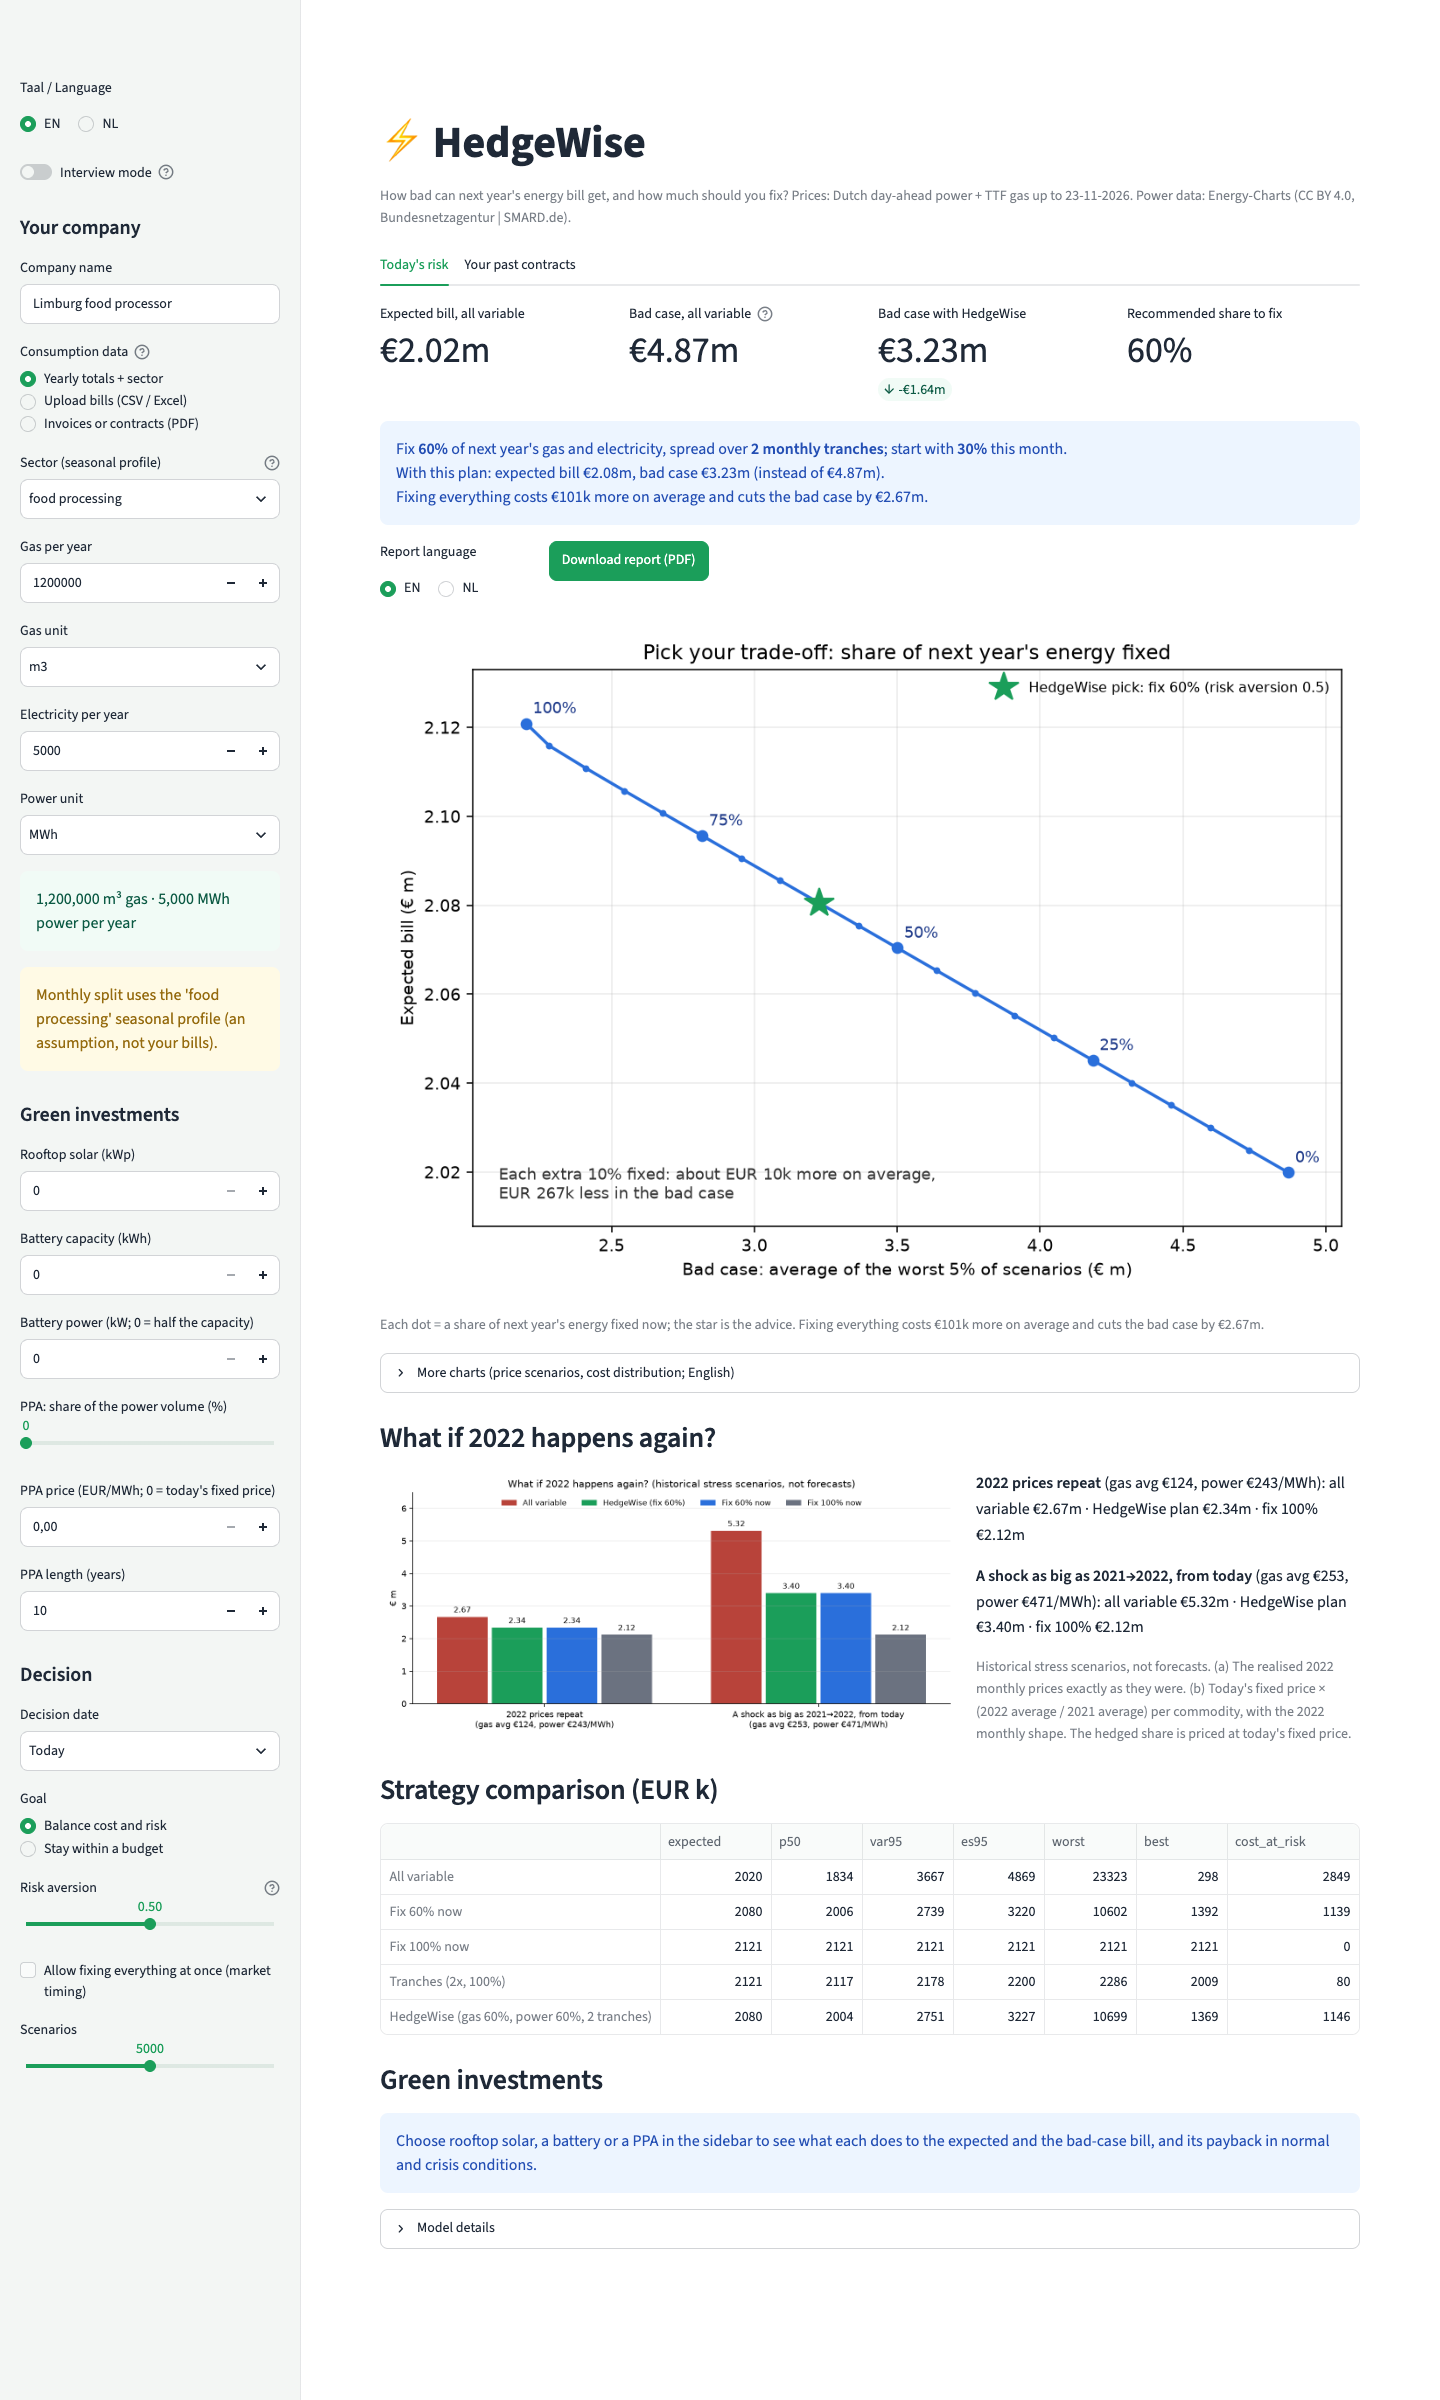
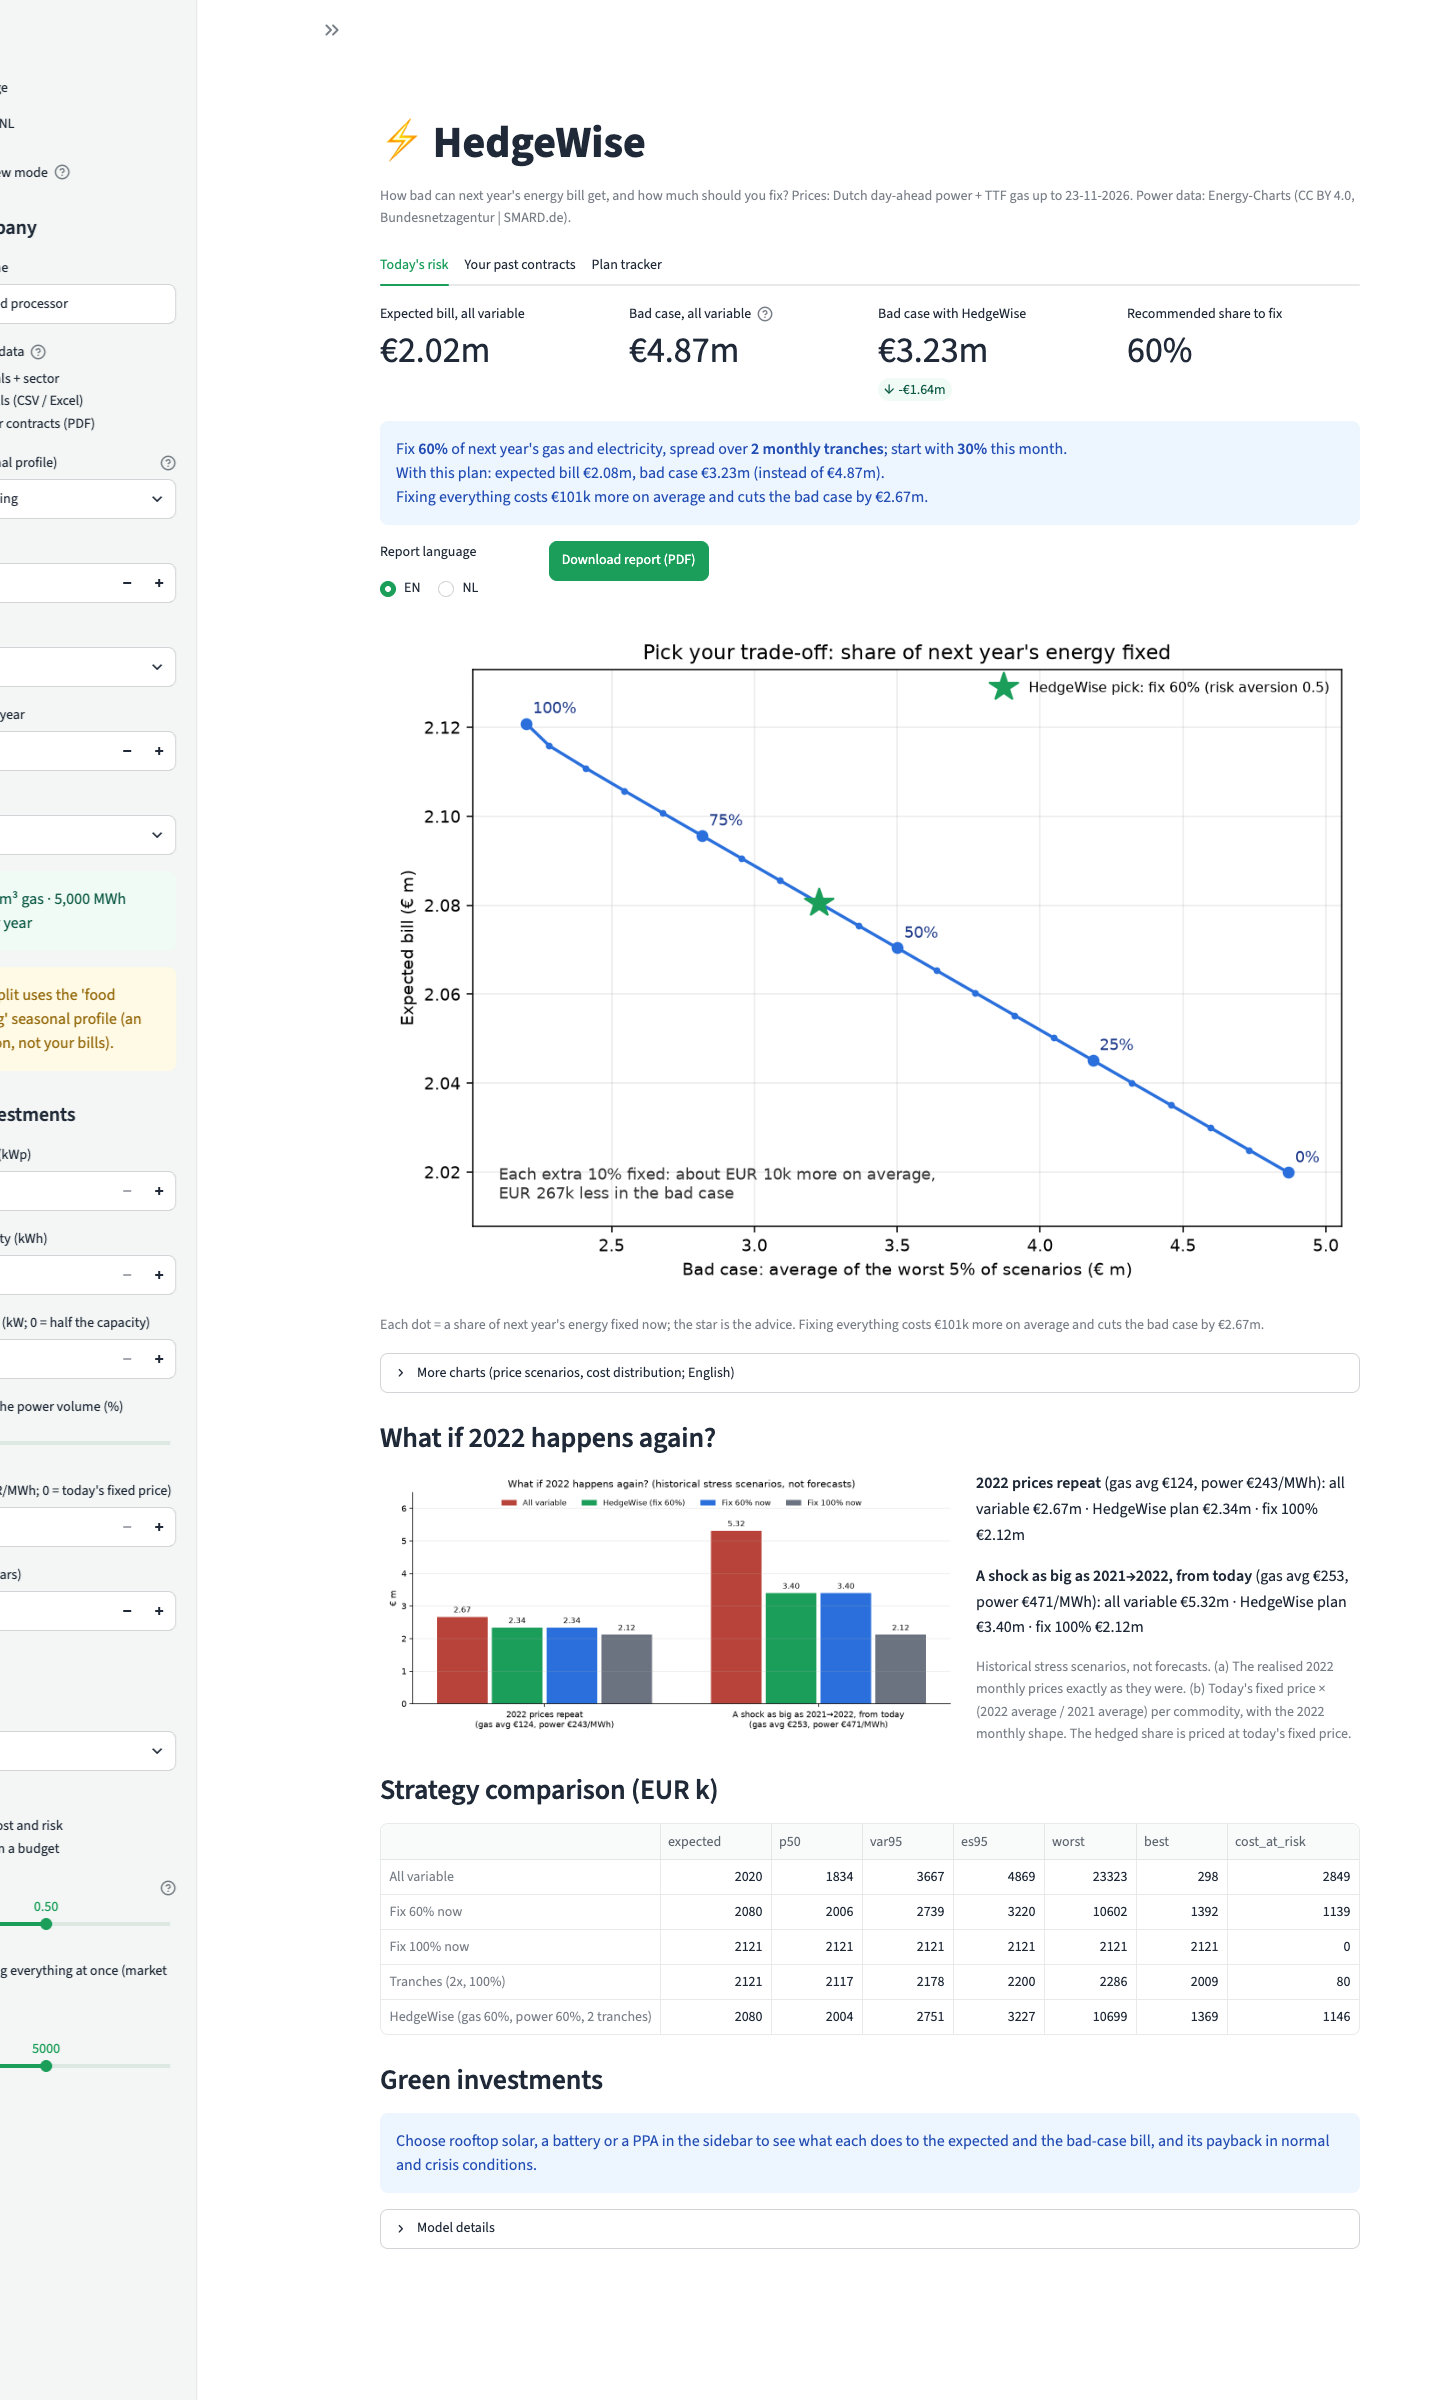
tests: the Dutch page has three tabs now (Plan volgen)

diff --git a/tests/test_app.py b/tests/test_app.py
@@ -28,7 +28,7 @@ def test_dutch_switch_translates_the_page():
     assert "Verwachte rekening, alles variabel" in labels and "Advies: deel vastzetten" in labels
     assert any("Zet **" in i.value for i in at.info)
     assert at.sidebar.header[0].value == "Uw bedrijf"
-    assert [t.label for t in at.tabs] == ["Risico vandaag", "Uw contracten"]
+    assert [t.label for t in at.tabs] == ["Risico vandaag", "Uw contracten", "Plan volgen"]
 
 
 def test_sector_and_upload_modes():
